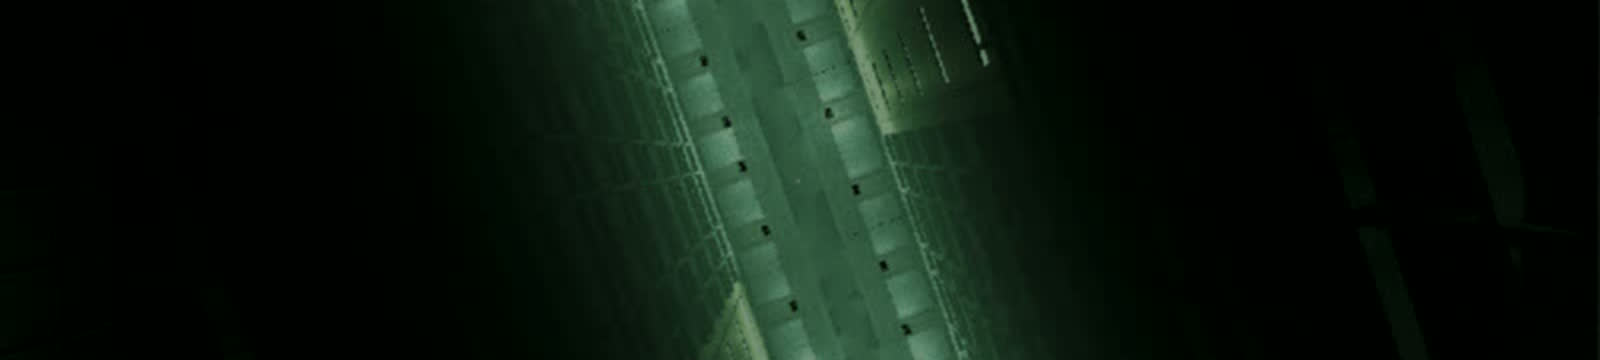
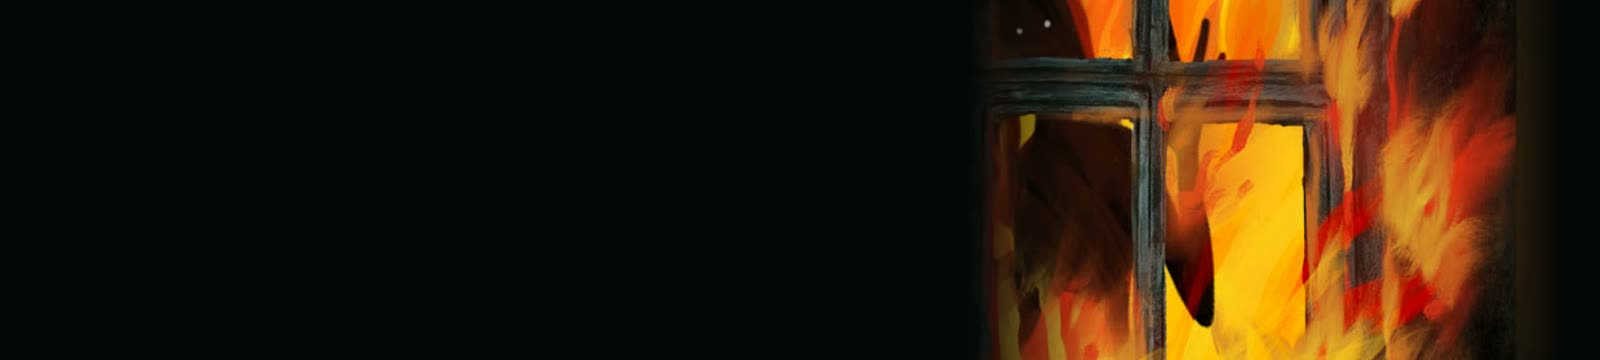
Wiki: use the official key art across the wiki
Key art becomes the community header banner (burning window), the wiki
logo (title lettering cropped with a transparent background), the main
page hero image, The Facility article infobox image and gallery, and
the Open Graph / Twitter share image.

diff --git a/wiki/index.html b/wiki/index.html
@@ -9,13 +9,17 @@
   <meta property="og:locale" content="tr_TR">
   <meta property="og:title" content="The Facility Wiki">
   <meta property="og:description" content="2055 yılında geçen psikolojik korku oyunu The Facility'nin karakterleri, mekânları ve evreni.">
-  <meta property="og:image" content="https://veinstonestudios.github.io/wiki/assets/img/screens/hall.jpg">
+  <meta property="og:image" content="https://veinstonestudios.github.io/wiki/assets/img/key-art.jpg">
+  <meta property="og:image:width" content="1232">
+  <meta property="og:image:height" content="706">
+  <meta name="twitter:card" content="summary_large_image">
+  <meta name="twitter:image" content="https://veinstonestudios.github.io/wiki/assets/img/key-art.jpg">
   <meta name="theme-color" content="#0d150e">
   <link rel="icon" href="assets/img/favicon.png" type="image/png">
   <link rel="preconnect" href="https://fonts.googleapis.com">
   <link rel="preconnect" href="https://fonts.gstatic.com" crossorigin>
   <link href="https://fonts.googleapis.com/css2?family=Rubik:ital,wght@0,300;0,400;0,500;0,700;1,400;1,700&family=IBM+Plex+Mono:wght@400;500&display=swap" rel="stylesheet">
-  <link rel="stylesheet" href="assets/css/wiki.css?v=2026-11-10-fandom1">
+  <link rel="stylesheet" href="assets/css/wiki.css?v=2026-11-10-fandom3">
 </head>
 <body>
   <a class="skip-link" href="#content">İçeriğe geç</a>
@@ -45,7 +49,7 @@
     <section class="community-header" aria-label="The Facility Wiki">
       <div class="ch-top">
         <a class="ch-wordmark" href="./" data-internal lang="en" aria-label="Ana Sayfa">
-          <span class="ch-logo">The<br>Facility</span>
+          <img class="ch-logo-img" src="assets/img/logo-wordmark.png" alt="The Facility" width="232" height="150">
         </a>
         <a class="ch-name" href="./" data-internal lang="en">The Facility Wiki</a>
         <div class="ch-count"><strong id="article-count">—</strong><span>madde</span></div>
@@ -93,7 +97,7 @@
     <button class="lb-next" type="button" aria-label="Sonraki görsel">›</button>
   </div>
 
-  <script src="content/config.js?v=2026-11-10-fandom1"></script>
-  <script src="assets/js/wiki.js?v=2026-11-10-fandom1"></script>
+  <script src="content/config.js?v=2026-11-10-fandom3"></script>
+  <script src="assets/js/wiki.js?v=2026-11-10-fandom3"></script>
 </body>
 </html>

diff --git a/wiki/assets/css/wiki.css b/wiki/assets/css/wiki.css
@@ -108,10 +108,11 @@ mark { background: rgba(195,255,212,.25); color: var(--text); padding: 0 .1em; b
 .main-container { width: 100%; max-width: var(--container); margin: 0 auto; padding: 0 16px 40px; flex: 1; }
 .community-header {
   position: relative; margin: 0 -16px; padding: 30px 32px 0;
-  background-color: #0a1210;
-  background-image: linear-gradient(to bottom, rgba(0,0,0,.15), rgba(0,0,0,.55) 75%, #000), url('../img/header-bg.jpg');
-  background-size: cover; background-position: center 40%;
+  background-color: #050706;
+  background-image: linear-gradient(to bottom, rgba(0,0,0,0) 55%, #000), url('../img/header-bg.jpg');
+  background-size: cover; background-position: right center;
 }
+.ch-logo-img { display: block; height: 96px; width: auto; filter: drop-shadow(0 2px 8px rgba(0,0,0,.6)); }
 .ch-top { display: flex; align-items: flex-end; gap: 20px; min-height: 86px; }
 .ch-wordmark { color: #fff; flex: 0 0 auto; }
 .ch-wordmark:hover { text-decoration: none; color: #fff; }
@@ -376,6 +377,8 @@ h2:hover .h-anchor { opacity: 1; }
 /* ------------------------------------------------------------------ Main page */
 .mainpage { display: flex; flex-direction: column; gap: 20px; }
 .mp-welcome { text-align: center; padding: 4px 6% 0; }
+.mp-hero { margin: 0 0 18px; border-radius: 10px; overflow: hidden; background: #000; box-shadow: 0 6px 24px rgba(0,0,0,.5); }
+.mp-hero img { width: 100%; height: auto; }
 .mp-welcome h1 { font: 400 30px/1.35 var(--font); margin: 0 0 14px; padding-bottom: 14px; border-bottom: 1px solid var(--border); }
 .mp-welcome h1 em { font-weight: 700; }
 .mp-welcome p { margin: 0 0 .8em; }
@@ -528,6 +531,8 @@ body.lb-open { overflow: hidden; }
   .community-header { margin: 0 -8px; }
   .ch-top { min-height: 0; flex-wrap: wrap; gap: 6px 14px; }
   .ch-logo { font-size: 34px; }
+  .ch-logo-img { height: 70px; }
+  .community-header { background-position: 72% center; }
   .ch-name { font-size: 17px; }
   .page-main { padding: 16px 14px 22px; border-radius: 10px; }
   .page-title { font-size: 28px; }

diff --git a/wiki/content/config.js b/wiki/content/config.js
@@ -16,7 +16,7 @@ window.WIKI_CONFIG = {
   gameTitle: 'The Facility',
 
   /* Maddeleri düzenledikten sonra bu sayıyı değiştirin ki tarayıcılar yeni dosyaları indirsin. */
-  version: '2026-11-10.8-fandom',
+  version: '2026-11-10.9-keyart',
 
   /* Üst bilgi ve alt bilgide gösterilen dış bağlantılar. */
   links: {
@@ -145,6 +145,8 @@ window.WIKI_CONFIG = {
      ANA SAYFA
      ------------------------------------------------------------------------ */
   mainPage: {
+    heroImage: 'assets/img/key-art.jpg',   // Ana Sayfanın en üstündeki büyük görsel
+    heroLink: 'The Facility',
     intro: [
       '**[[The Facility]]**, Veinstone Studios tarafından geliştirilen ve 2055 yılında geçen bir psikolojik korku oyunudur. ' +
       'Oyuncu, [[Corrupted]] olduğundan şüphelenilen kişilerin tutulduğu bir hapishane ve rehabilitasyon merkezi olan ' +

diff --git a/wiki/assets/js/wiki.js b/wiki/assets/js/wiki.js
@@ -744,6 +744,8 @@
 
     return '<div class="mainpage">' +
       '<section class="mp-welcome">' +
+        (M.heroImage ? '<figure class="mp-hero"><a href="' + esc(pageUrl(M.heroLink || 'The Facility')) + '" data-internal>' +
+          '<img src="' + esc(M.heroImage) + '" alt="The Facility key art" width="1232" height="706"></a></figure>' : '') +
         '<h1><em lang="en">The Facility</em> Wiki\'ye Hoş Geldiniz</h1>' +
         (M.intro || []).map(function (t) { return '<p>' + inline(t) + '</p>'; }).join('') +
         '<p class="mp-stats">Şu anda <strong>' + all.length + '</strong> madde ve <strong>' + Array.from(categories.keys()).length + '</strong> kategori bulunuyor.</p>' +

diff --git a/wiki/content/articles/the-facility.md b/wiki/content/articles/the-facility.md
@@ -4,10 +4,10 @@ type: game
 categories: Oyun Bilgileri
 aliases: The Facility (oyun), Oyun, Game
 summary: The Facility, Veinstone Studios tarafından geliştirilen ve 2055 yılında geçen bir psikolojik korku oyunudur; oyuncu Facility 61'in Gardiyanı olarak görev yapar.
-image: assets/img/screens/hall.jpg
-caption: [[Facility 61]]'in içi (geliştirme sürümü ekran görüntüsü)
+image: assets/img/key-art.jpg
+caption: The Facility key art
 created: 2026-11-09
-updated: 2026-11-09
+updated: 2026-11-10
 infobox-title: The Facility
 infobox:
   [Genel]
@@ -86,6 +86,7 @@ Resmî basın kitine göre *The Facility* şunları içerir:
 
 ## Galeri
 :::gallery
+assets/img/key-art.jpg | Resmî key art
 assets/img/screens/hall.jpg | Tesisin içindeki bir salon
 assets/img/screens/cell-inspection.jpg | Bir mahkûmun hücre kapağından incelenmesi
 assets/img/screens/journal.jpg | İfadeleri karşılaştırmak için kullanılan günlük
